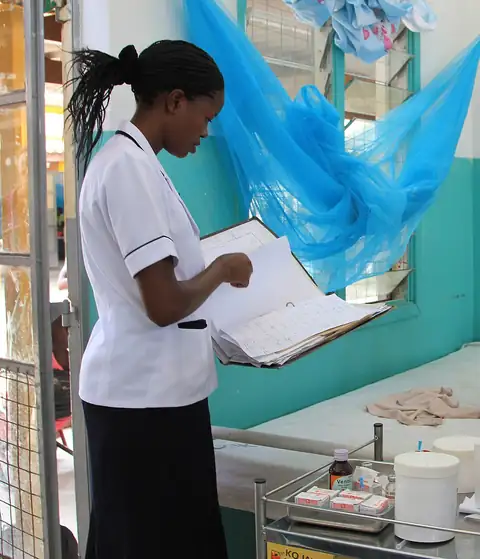
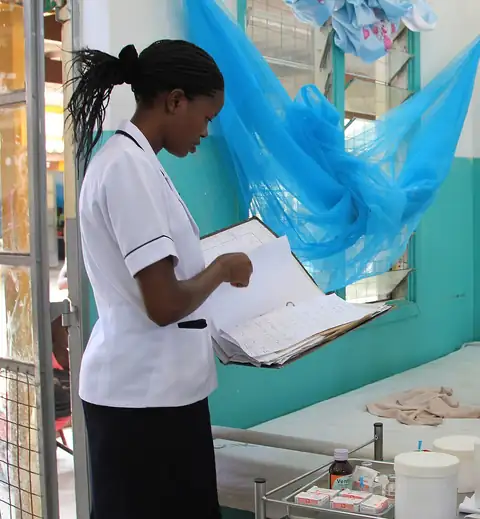
Update hospital photos

diff --git a/apps/web/src/components/Photo.jsx b/apps/web/src/components/Photo.jsx
@@ -9,24 +9,25 @@ export const PHOTOS = {
     src: '/images/ward-nurse.webp',
     srcSet: '/images/ward-nurse-sm.webp 480w, /images/ward-nurse.webp 960w',
     width: 960,
-    height: 1117,
-    alt: "A nurse reads a patient's notes on the paediatric ward at Lodwar District Hospital, Turkana",
[1 lines of base64/hex data omitted]
+    height: 1039,
+    alt: "A nurse reads a patient's notes on a hospital ward",
[1 lines of base64/hex data omitted]
     credit: 'Marisol Grandon / UK Department for International Development',
     license: 'CC BY 2.0',
     source:
       'https://commons.wikimedia.org/wiki/File:Getting_treatment_for_malnutrition_in_northern_Kenya_(6220164120).jpg',
   },
-  lodwarDoctor: {
-    src: '/images/lodwar-doctor.webp',
-    srcSet: '/images/lodwar-doctor-sm.webp 800w, /images/lodwar-doctor.webp 1600w',
+  maternityMidwife: {
+    src: '/images/maternity-midwife.webp',
+    srcSet: '/images/maternity-midwife-sm.webp 800w, /images/maternity-midwife.webp 1600w',
     width: 1600,
-    height: 550,
-    alt: 'The acting medical superintendent of Lodwar District Hospital in the hospital courtyard',
[1 lines of base64/hex data omitted]
-    credit: 'Marisol Grandon / UK Department for International Development',
-    license: 'CC BY 2.0',
-    source: 'https://commons.wikimedia.org/wiki/File:On_the_road_to_recovery_in_Lodwar_hospital_(6220162256).jpg',
+    height: 500,
+    alt: 'A midwife in a surgical cap and mask on a hospital maternity ward',
[1 lines of base64/hex data omitted]
+    credit: '1st Lt. Katherine Sibilla, U.S. Army',
+    license: 'Public domain',
+    source:
+      'https://commons.wikimedia.org/wiki/File:US,_Ghana_midwives_team_up_in_maternity_ward_at_African_Lion_2025_(9047756).jpg',
   },
 };
 

diff --git a/apps/web/src/pages/Home.jsx b/apps/web/src/pages/Home.jsx
@@ -98,11 +98,11 @@ export default function Home() {
   const { me, can } = useAuth();
   const work = WORK.filter((l) => can(l.perm));
   const admin = ADMIN.filter((l) => can(l.perm));
-  const photo = PHOTOS.lodwarDoctor;
+  const photo = PHOTOS.maternityMidwife;
   return (
     <>
       <section className="relative mb-6 flex min-h-44 overflow-hidden rounded-xl border border-brand-900/30 bg-brand-900 shadow-[0_2px_4px_rgb(15_23_42/0.1),0_18px_36px_-18px_rgb(15_23_42/0.55)] sm:min-h-52">
-        <Photo photo={photo} sizes="(min-width: 1024px) 70vw, 100vw" position="30% 30%" priority />
+        <Photo photo={photo} sizes="(min-width: 1024px) 70vw, 100vw" position="70% 80%" priority />
         <div
           className="absolute inset-0 bg-gradient-to-r from-brand-900/90 via-brand-900/55 to-transparent"
           aria-hidden
